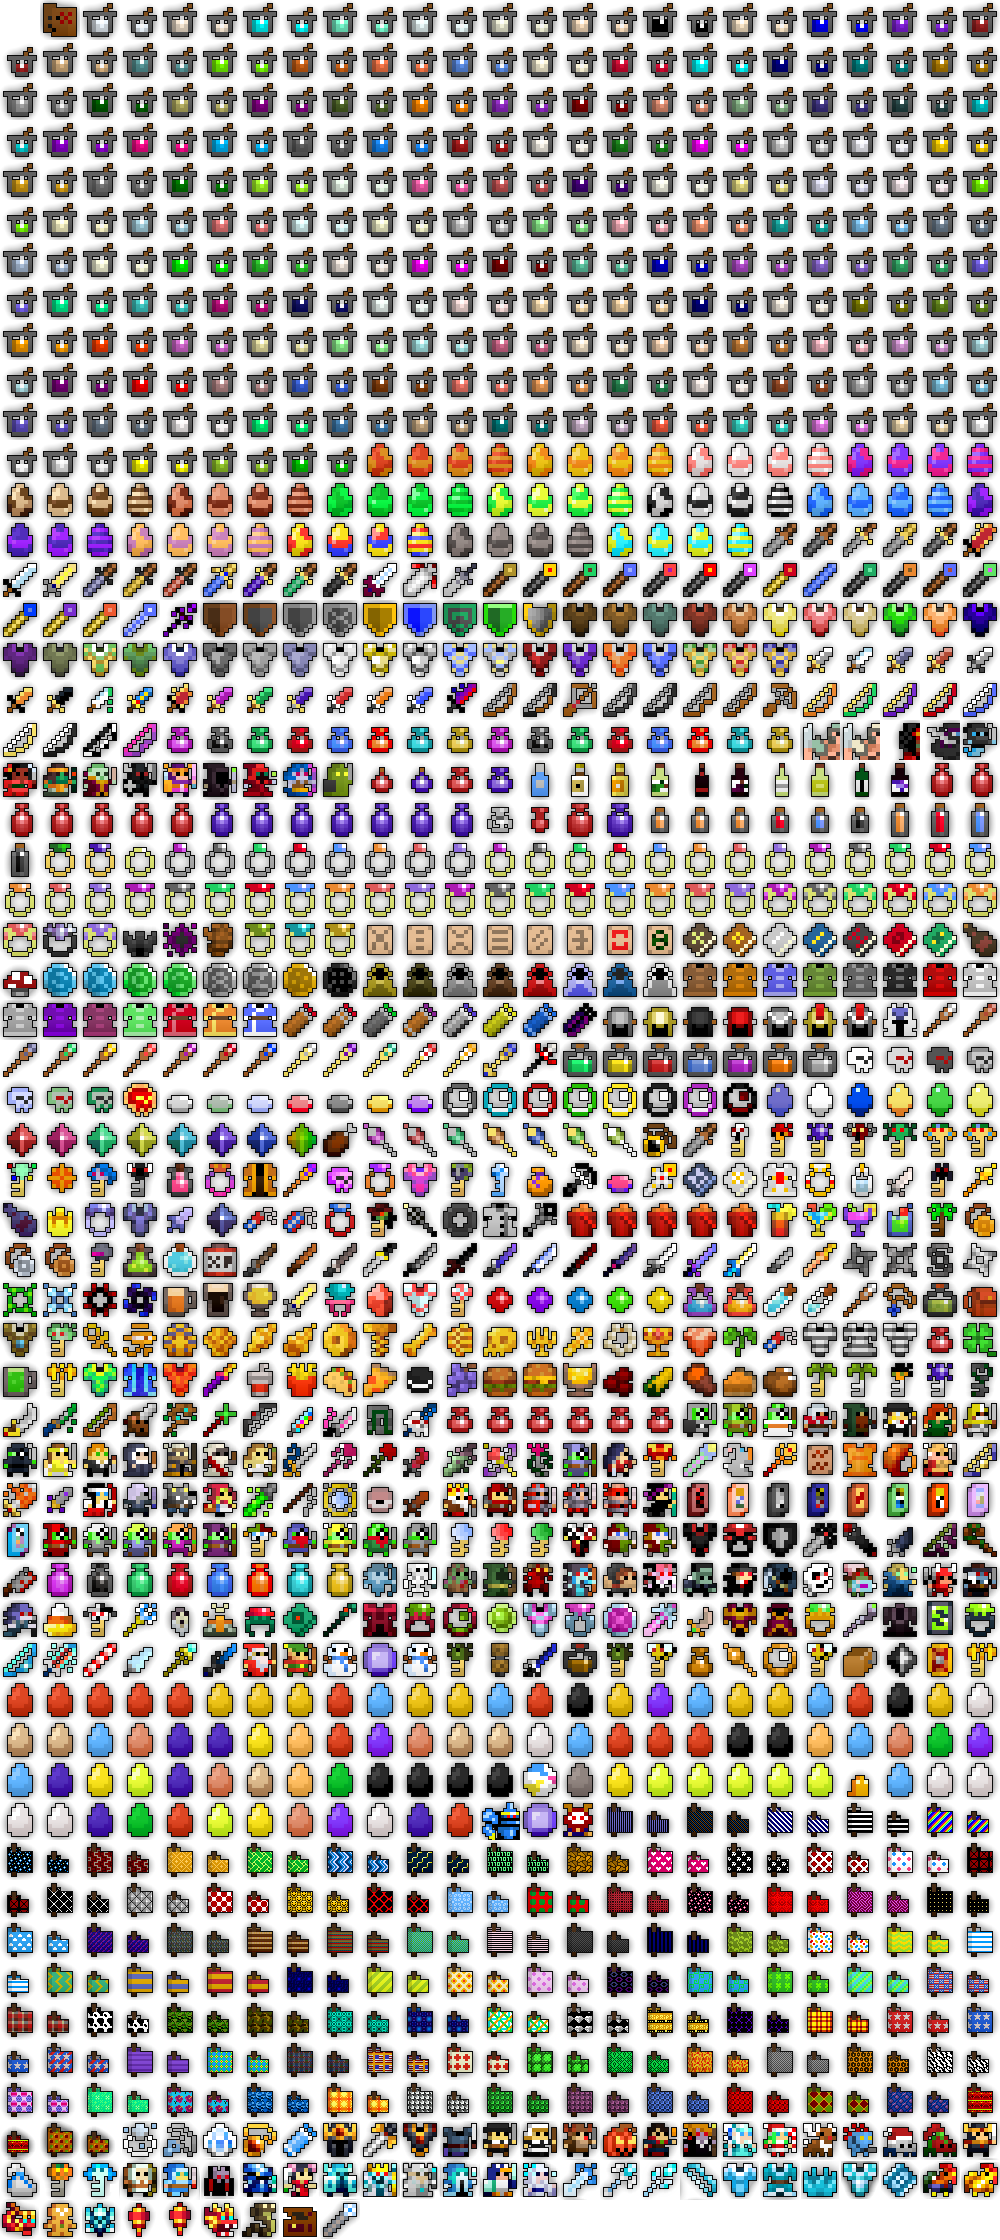
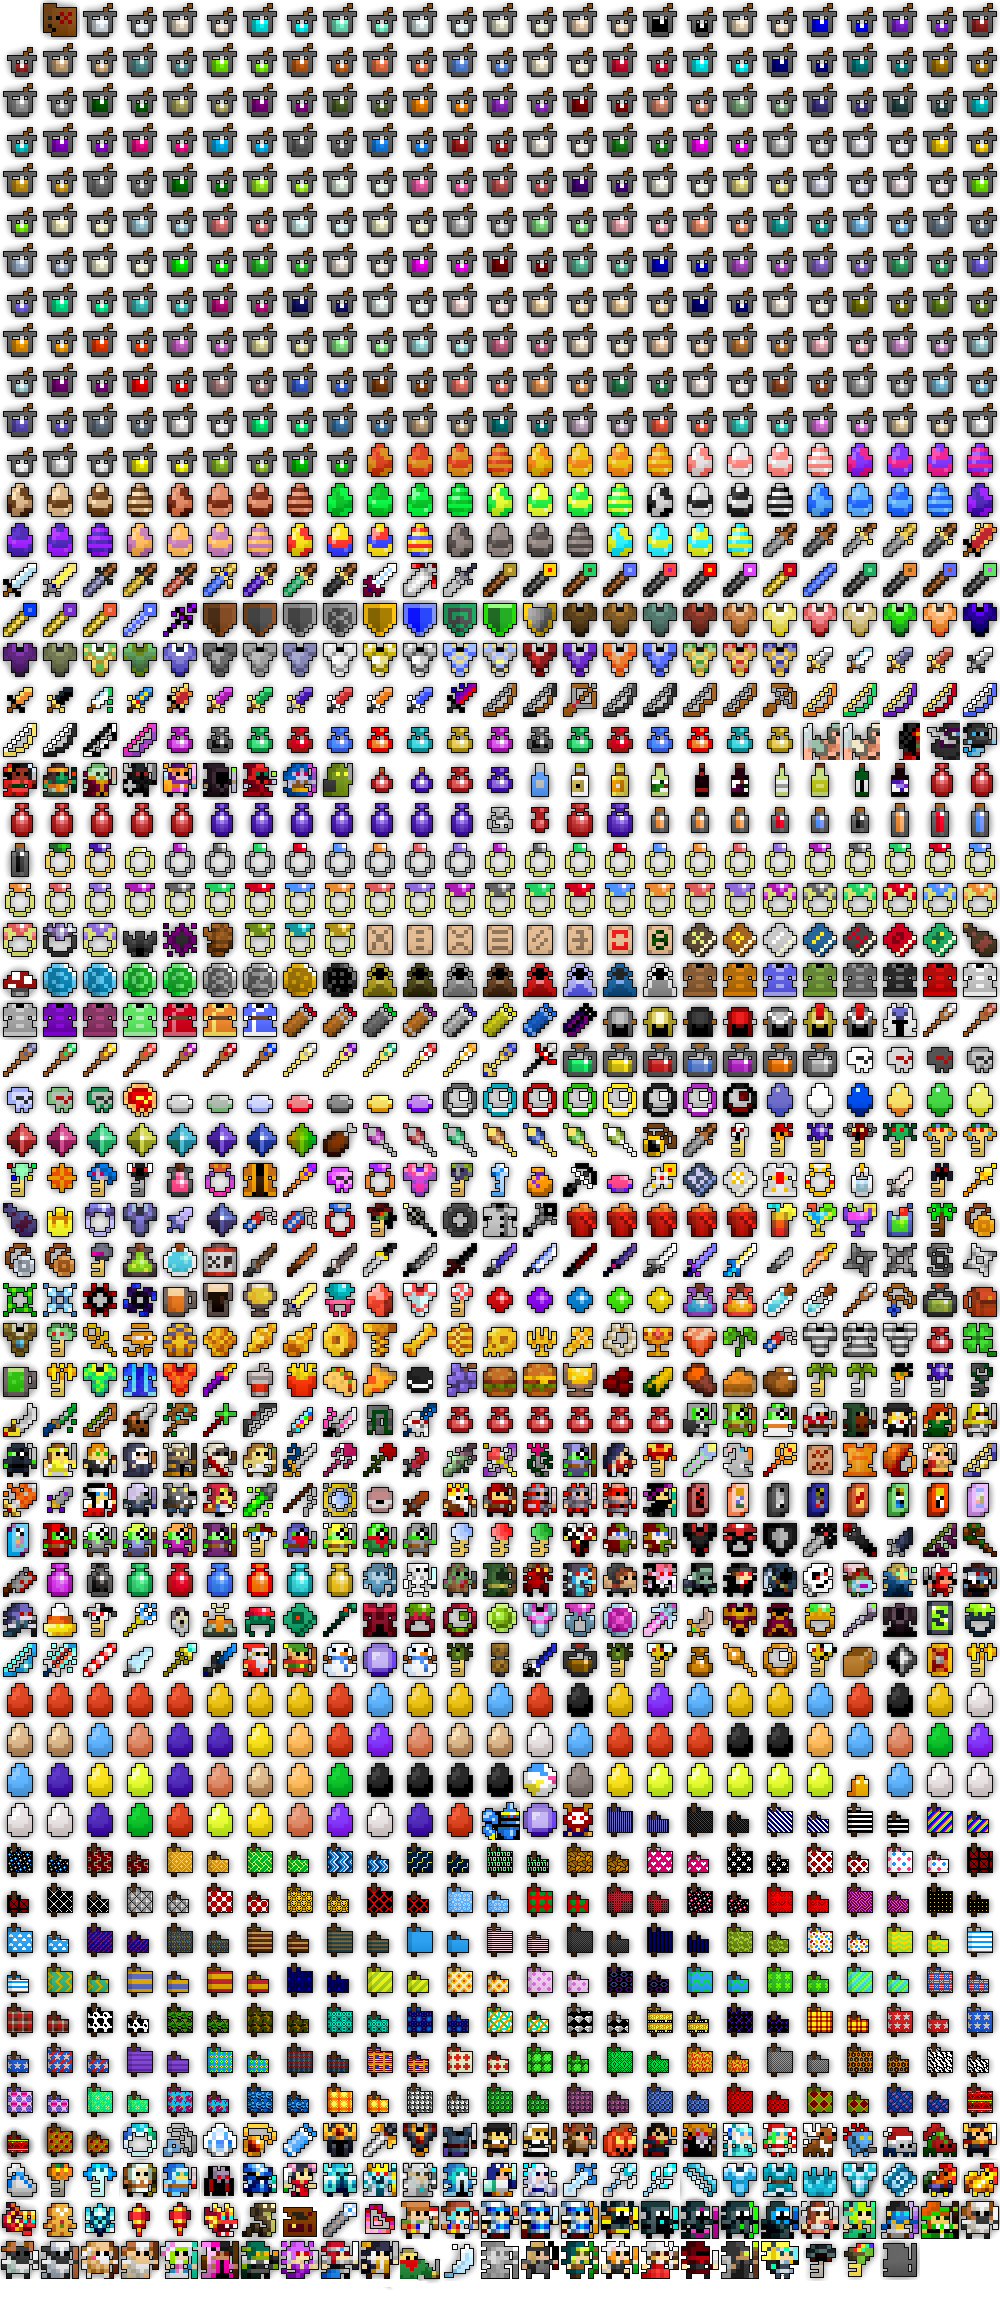
Update 27.7.x.14 added
Also added the new method to make muledump work (added &muleDump=true to muledump parameters)

diff --git a/lib/constants.js b/lib/constants.js
@@ -1374,6 +1374,7 @@ items = {
 0x16de: ["Tome of Frigid Protection", 4, -1, 880, 2160, 6, 1300],
 0x19c0: ["Fire Rooster Pet Stone", 10, -1, 920, 2160, 0, 5000],
 0x19c3: ["Rooster of Good Fortune Pet Stone", 10, -1, 960, 2160, 0, 5000],
+
 0x19c6: ["Mini Chinese Dragon Pet Stone", 10, -1, 0, 2200, 0, 5000],
 0x19c9: ["Gingerbread Man Pet Stone", 10, -1, 40, 2200, 0, 5000],
 0x19cc: ["Mini Polaris Pet Stone", 10, -1, 80, 2200, 0, 5000],
@@ -1382,8 +1383,92 @@ items = {
 0x19d5: ["Chinese Dragon Pet Stone", 10, -1, 200, 2200, 0, 5000],
 0x19d8: ["Desert Cobra Pet Stone", 10, -1, 240, 2200, 0, 5000],
 0x32b:  ["Vault Chest Unlocker", 10, -1, 280, 2200, 0, 0],
-0x32a:  ["Char Slot Unlocker", 10, -1, 320, 2200, 0, 0],
-0x1412: ["Frozen Wand", 8, -1, 360, 2200, 4, 500],
+0x1412: ["Frozen Wand", 8, -1, 320, 2200, 4, 500],
+
+0x221:  ["Hearticles", 10, -1, 360, 2200, 0, 500],
+0x171c: ["Warrior - Artist Extraordinaire Skin", 10, -1, 400, 2200, 0, 5000],
+0x171d: ["Paladin - Artist Extraordinaire Skin", 10, -1, 400, 2200, 0, 5000],
+0x171e: ["Knight - Artist Extraordinaire Skin", 10, -1, 400, 2200, 0, 5000],
+0x171f: ["Ninja - Artist Extraordinaire Skin", 10, -1, 400, 2200, 0, 5000],
+0x1739: ["Archer - Artist Extraordinaire Skin", 10, -1, 400, 2200, 0, 5000],
+0x173a: ["Rogue - Artist Extraordinaire Skin", 10, -1, 400, 2200, 0, 5000],
+0x173b: ["Assassin - Artist Extraordinaire Skin", 10, -1, 400, 2200, 0, 5000],
+0x173c: ["Wizard - Artist Extraordinaire Skin", 10, -1, 400, 2200, 0, 5000],
+0x173d: ["Necromancer - Artist Extraordinaire Skin", 10, -1, 400, 2200, 0, 5000],
+0x173e: ["Priest - Artist Extraordinaire Skin", 10, -1, 400, 2200, 0, 5000],
+0x173f: ["Sorcerer - Artist Extraordinaire Skin", 10, -1, 400, 2200, 0, 5000],
+0x1753: ["Huntress - Artist Extraordinaire Skin", 10, -1, 440, 2200, 0, 5000],
+0x1768: ["Mystic - Artist Extraordinaire Skin", 10, -1, 440, 2200, 0, 5000],
+0x1769: ["Trickster - Artist Extraordinaire Skin", 10, -1, 440, 2200, 0, 5000],
+0x1778: ["Wizard - Dungeon Mastermind Skin", 10, -1, 480, 2200, 0, 5000],
+0x1779: ["Priest - Dungeon Mastermind Skin", 10, -1, 480, 2200, 0, 5000],
+0x177a: ["Necromancer - Dungeon Mastermind Skin", 10, -1, 480, 2200, 0, 5000],
+0x177b: ["Sorcerer - Dungeon Mastermind Skin", 10, -1, 480, 2200, 0, 5000],
+0x177c: ["Mystic - Dungeon Mastermind Skin", 10, -1, 480, 2200, 0, 5000],
+0x177d: ["Rogue - Dungeon Mastermind Skin", 10, -1, 520, 2200, 0, 5000],
+0x177e: ["Warrior - Dungeon Mastermind Skin", 10, -1, 520, 2200, 0, 5000],
+0x177f: ["Assassin - Dungeon Mastermind Skin", 10, -1, 520, 2200, 0, 5000],
+0x1780: ["Ninja - Dungeon Mastermind Skin", 10, -1, 520, 2200, 0, 5000],
+0x1781: ["Paladin - Dungeon Mastermind Skin", 10, -1, 520, 2200, 0, 5000],
+0x1782: ["Knight - Dungeon Mastermind Skin", 10, -1, 520, 2200, 0, 5000],
+0x1783: ["Trickster - Dungeon Mastermind Skin", 10, -1, 520, 2200, 0, 5000],
+0x1784: ["Huntress - Dungeon Mastermind Skin", 10, -1, 560, 2200, 0, 5000],
+0x1785: ["Archer - Dungeon Mastermind Skin", 10, -1, 560, 2200, 0, 5000],
+0x2ac1: ["Warrior - Future Seeker Tester Skin", 10, -1, 600, 2200, 0, 5000],
+0x2ac2: ["Knight - Future Seeker Tester Skin", 10, -1, 600, 2200, 0, 5000],
+0x2ac3: ["Paladin - Future Seeker Tester Skin", 10, -1, 600, 2200, 0, 5000],
+0x2ac4: ["Rogue - Future Seeker Tester Skin", 10, -1, 640, 2200, 0, 5000],
+0x2ac5: ["Assassin - Future Seeker Tester Skin", 10, -1, 640, 2200, 0, 5000],
+0x2ac6: ["Trickster - Future Seeker Tester Skin", 10, -1, 640, 2200, 0, 5000],
+0x2ac7: ["Ninja - Future Seeker Tester Skin", 10, -1, 640, 2200, 0, 5000],
+0x2ac8: ["Wizard - Future Seeker Tester Skin", 10, -1, 680, 2200, 0, 5000],
+0x2ac9: ["Necromancer - Future Seeker Tester Skin", 10, -1, 680, 2200, 0, 5000],
+0x2aca: ["Mystic - Future Seeker Tester Skin", 10, -1, 680, 2200, 0, 5000],
+0x2acb: ["Archer - Future Seeker Tester Skin", 10, -1, 720, 2200, 0, 5000],
+0x2acc: ["Huntress - Future Seeker Tester Skin", 10, -1, 720, 2200, 0, 5000],
+0x2acd: ["Priest - Future Seeker Tester Skin", 10, -1, 760, 2200, 0, 5000],
+0x2ace: ["Sorcerer - Future Seeker Tester Skin", 10, -1, 760, 2200, 0, 5000],
+0x2adf: ["Wind Flower Skin", 10, -1, 800, 2200, 0, 5000],
+0x2ae0: ["Leprechaun Mystic Skin", 10, -1, 840, 2200, 0, 5000],
+0x2aed: ["Mini Nut Archer Skin", 10, -1, 880, 2200, 0, 5000],
+0x2ae1: ["Miss Shamrock Wizard Skin", 10, -1, 920, 2200, 0, 5000],
+0x2ae2: ["Sheep Warrior Skin", 10, -1, 960, 2200, 0, 5000],
+0x2ae3: ["Sheep Rogue Skin", 10, -1, 0, 2240, 0, 5000],
+0x2ae4: ["Sheep Wizard Skin", 10, -1, 40, 2240, 0, 5000],
+0x2ae5: ["Sheep Archer Skin", 10, -1, 80, 2240, 0, 5000],
+0x2ae6: ["Sheep Priest Skin", 10, -1, 120, 2240, 0, 5000],
+0x2ae7: ["Lil' Bo-Peep Mystic Skin", 10, -1, 160, 2240, 0, 5000],
+0x2ae8: ["The Flamingo Wizard Skin", 10, -1, 200, 2240, 0, 5000],
+0x2aea: ["Dr. Spellbomb Skin", 10, -1, 240, 2240, 0, 5000],
+0x2ae9: ["Mini Stheno Skin", 10, -1, 280, 2240, 0, 5000],
+0x2aeb: ["Iron Maiden Skin", 10, -1, 320, 2240, 0, 5000],
+0x2aec: ["Explorer Skin", 10, -1, 360, 2240, 0, 5000],
+0x2abb: ["Beefcake Rogue Skin", 10, -1, 400, 2240, 0, 5000],
+0x6a9:  ["Apocalypse Feather", 1, -1, 440, 2240, 0, 1000],
+0x4ad8: ["Mystic Emeritus Skin", 10, -1, 480, 2240, 0, 5000],
+0x4ad9: ["Silver Ninja Skin", 10, -1, 520, 2240, 0, 5000],
+0x4ada: ["Woodland Huntress Skin", 10, -1, 560, 2240, 0, 5000],
+0x4adb: ["Bunny Trickster Skin", 10, -1, 600, 2240, 0, 5000],
+0x4adc: ["Shrine Priestess Skin", 10, -1, 640, 2240, 0, 5000],
+0x4add: ["Red Outlaw Skin", 10, -1, 680, 2240, 0, 5000],
+0x4ade: ["Shadow Mage Skin", 10, -1, 720, 2240, 0, 5000],
+0x4adf: ["Shield Maiden Skin", 10, -1, 760, 2240, 0, 5000],
+0x12f:  ["Mountain Temple Key", 10, -1, 800, 2240, 0, 200],
+0x1649: ["St. Patricks Key", 10, -1, 840, 2240, 0, 200],
+0x32a:  ["Char Slot Unlocker", 10, -1, 880, 2240, 0, 0],
+0x4bb5: ["Dark Elf Assassin Skin", 10, -1, 920, 2240, 0, 5000],
+0x4bb4: ["Ancient Sorcerer Skin", 10, -1, 960, 2240, 0, 5000],
+0x4bba: ["Cunning Sorcerer Skin", 10, -1, 0, 2280, 0, 5000],
+0x4bb2: ["Ordinary Magician Skin", 10, -1, 40, 2280, 0, 5000],
+0x4bb1: ["Elf Archer Skin", 10, -1, 80, 2280, 0, 5000],
+0x4bb3: ["Heroic Knight Skin", 10, -1, 120, 2280, 0, 5000],
+0x4bb0: ["Markswoman Huntress Skin", 10, -1, 160, 2280, 0, 5000],
+0x178e: ["Mardi Gras Sorcerer Skin", 10, -1, 200, 2280, 0, 5000],
+0x178d: ["Romeo Assassin Skin", 10, -1, 240, 2280, 0, 5000],
+0x178b: ["Juliet Trickster Skin", 10, -1, 280, 2280, 0, 5000],
+0x178c: ["Heartseeker Huntress Skin", 10, -1, 320, 2280, 0, 5000],
+0x178f: ["Carnivalmancer Skin", 10, -1, 360, 2280, 0, 5000],
+//0x13c:  ["Testing Mystery Dye", 10, -1, 760, 2120, 0, 5000], (Unknown)
 }
 // type: ["Name of item", slot, tier, x, y, famebonus, feedpower
 

diff --git a/lib/realmapi.js b/lib/realmapi.js
@@ -30,7 +30,7 @@ function update_counter() {
 
 function realmAPI(path, opts, extraopts, callback) {
 	opts.ignore = Math.floor(1e3 + 9e3 * Math.random())
-	var url = BASEURL + path + '?' + $.param(opts)
+	 var url = BASEURL + path + '?' + $.param(opts)+'&muleDump=true'
 
 	if (typeof extraopts == 'function') {
 		callback = extraopts
